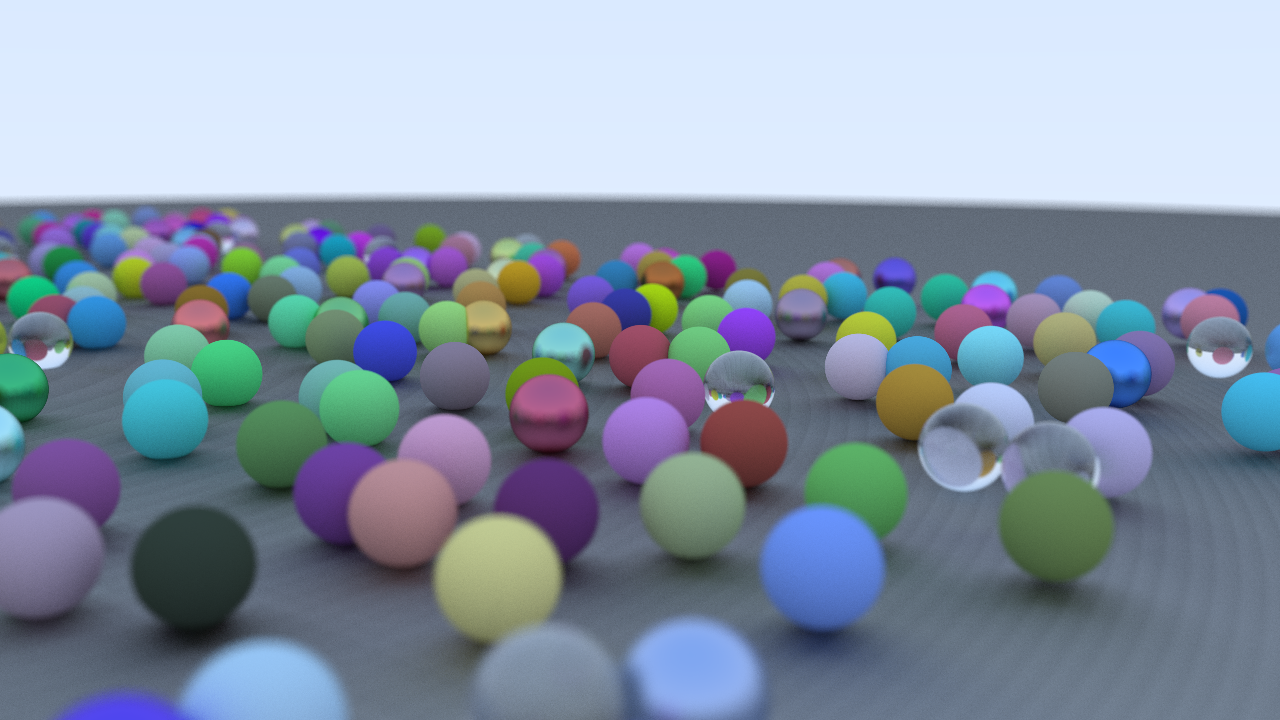
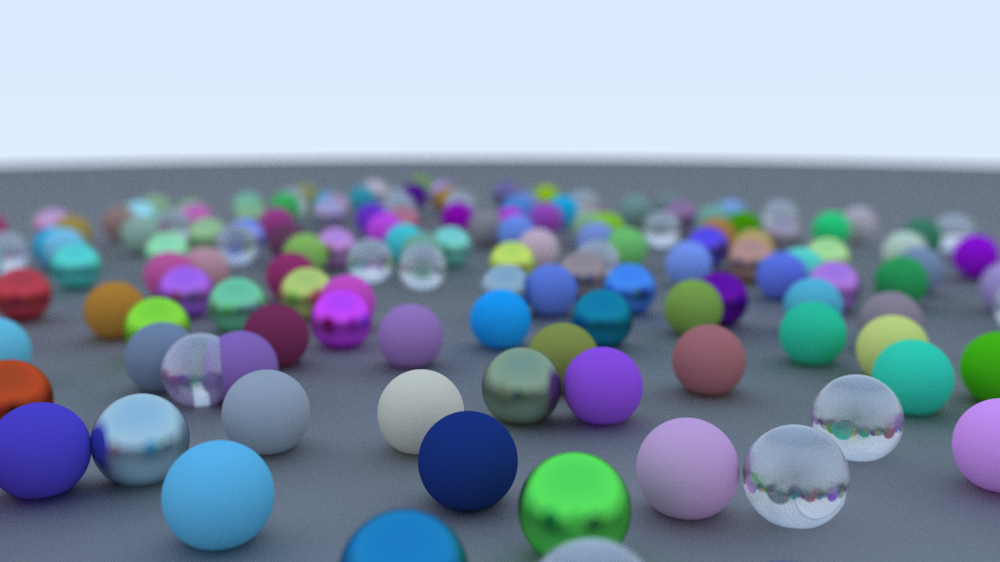
New example

diff --git a/src/main.rs b/src/main.rs
@@ -4,7 +4,7 @@ use animation::animation::{AnimationChannel, AnimationKey, Interpolation};
 use crossbeam::{thread, channel::unbounded};
 use math::vector2::Vector2;
 use media::{ppm, media_info::PPMInfo};
-use structures::{scene::{Scene}, node::Node, materials::{diffuse::Diffuse, metal::Metal, dielectric::Dielectric}};
+use structures::{scene::{Scene}, node::Node, materials::{diffuse::Diffuse, metal::Metal, dielectric::Dielectric}, material::Material};
 use utils::{GeneralInfo, RenderInfo};
 
 use crate::{color::Color, math::vector3::Vector3, ray::Ray, structures::{sphere::Sphere, camera::Camera}};
@@ -141,7 +141,7 @@ fn ray_color(scene: &Scene, ray: Ray, depth: u64, f: f32) -> Color {
     return Color::add(&c1, &c2);
 }
 
-/*fn test_scene() -> Scene {
+fn test_scene() -> Scene {
     let mut scene = Scene::new();
 
     for i in -11..11 {
@@ -151,11 +151,11 @@ fn ray_color(scene: &Scene, ray: Ray, depth: u64, f: f32) -> Color {
             let z = j as f32 + 0.9 * rand::random::<f32>();
 
             let material_number: f32 = rand::random();
-            let material: Box<dyn Material + Send + Sync> = if material_number < 0.8 {
+            let material: Box<dyn Material + Send + Sync> = if material_number < 0.6 {
                 Box::new(Diffuse::new(
                     Color::new(rand::random(), rand::random(), rand::random())
                 ))
-            } else if material_number < 0.95 {
+            } else if material_number < 0.85 {
                 Box::new(Metal::new(
                     Color::new(rand::random(), rand::random(), rand::random()),
                     0.3
@@ -164,18 +164,10 @@ fn ray_color(scene: &Scene, ray: Ray, depth: u64, f: f32) -> Color {
                 Box::new(Dielectric::new(1.5))
             };
 
-            let mut sphere = Sphere::new(
+            let sphere = Sphere::new(
                 Vector3::new(x, y, z), 0.25,
                 material
             );
-            let mut animation_rad = AnimationChannel::new();
-            let mut anim_key1 = AnimationKey::new(0.0, 0.0);
-            let mut anim_key2 = AnimationKey::new(5.0, 0.2);
-            anim_key1.change_interpolation(Interpolation::Linear);
-            anim_key2.change_interpolation(Interpolation::Linear);
-            animation_rad.add_key(anim_key1);
-            animation_rad.add_key(anim_key2);
-            sphere.add_animation_channel("radius".to_string(), animation_rad);
 
             let mut node = Node::new();
             node.set_renderable(Box::new(sphere));
@@ -195,7 +187,7 @@ fn ray_color(scene: &Scene, ray: Ray, depth: u64, f: f32) -> Color {
     scene.add_child(ground_node);
 
     return scene;
-}*/
+}
 
 fn init_scene() -> Scene {
     let mut scene = Scene::new();
@@ -423,7 +415,7 @@ fn render_animation(info: &GeneralInfo, scene: &Scene,
 }
 
 fn main() {
-    println!("Starting Raybow...");
+    println!("Running Raybow...");
     let info_start_time = Instant::now();
 
     let info = match get_info_from_args() {
@@ -450,12 +442,12 @@ fn main() {
         .set_vertical_field_of_view(30.0)
         .build();
     
-    camera.set_location(Vector3::new(4.0, 1.0, 4.0));
+    camera.set_location(Vector3::new(4.0, 2.0, 4.0));
     camera.set_rotation(Vector3::new(-10.0, 40.0, 0.0));
     camera.set_focus_distance(5.7);
     camera.set_aperture_size(0.1);
 
-    let mut scene = init_scene();
+    let mut scene = test_scene();
     scene.add_camera(camera);
 
     if info.animation {

diff --git a/src/animation/animation.rs b/src/animation/animation.rs
@@ -1,5 +1,6 @@
 use crate::math::{vector2::Vector2, vector3::Vector3};
 
+/** Keyframe interpolation types */
 pub enum Interpolation {
     Constant,
     Linear,
